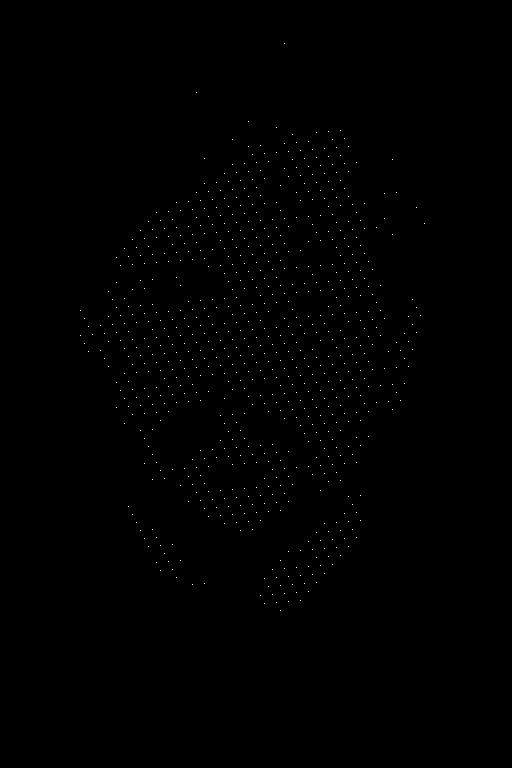
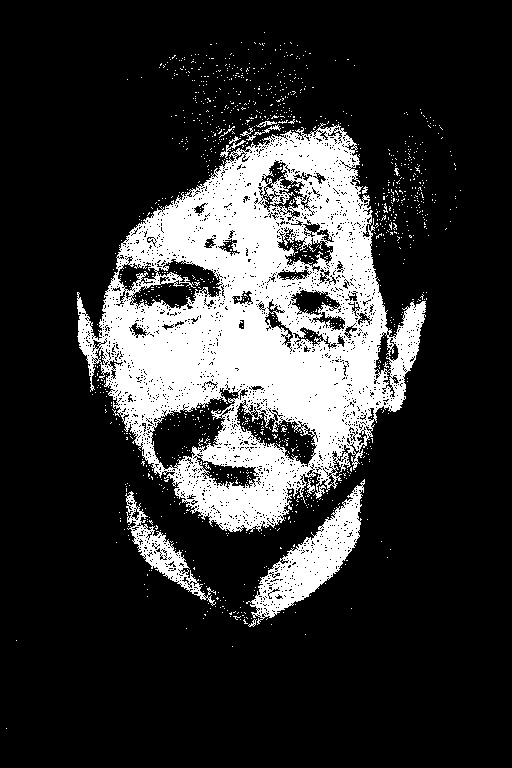
Melhor exemplo da knn

Changed region(s): [[0.125, 0.125, 0.8438, 0.8125], [0.25, 0.625, 0.4375, 0.7812]]

diff --git a/Trabalho4/requisito1_knn.py b/Trabalho4/requisito1_knn.py
@@ -40,7 +40,7 @@ visualize_train_images = False
 
 #Bool que determina se devemos rodar o algoritmo mais rapido, mas perdendo qualidade
 #Caso seja true, nao vai classificar todos os pixels da imagem de treino, vai pular jumpNum pixels para cada classificacao
-Run_Faster = True
+Run_Faster = False
 jumpNum = 100
 
 #Define the train directories paths
@@ -157,7 +157,7 @@ for w in range(og_img_test.shape[0]):
             classified[w][h][:] = (255,255,255)
 
         #Print para acompanhar o processo de teste
-        if Num_processado == 0 or Num_processado % int(Num_a_processar / 10000) == 0:
+        if Num_processado == 0 or Num_processado % int(Num_a_processar / 100) == 0:
             print("Passo demorou: {:.2f}seg.\tJa foram processados {} pontos de um total de {} pontos ===> {:.2f}%".format(time.time() - start_time,Num_processado, Num_a_processar, (Num_processado/Num_a_processar)*100))
             start_time = time.time()
         
